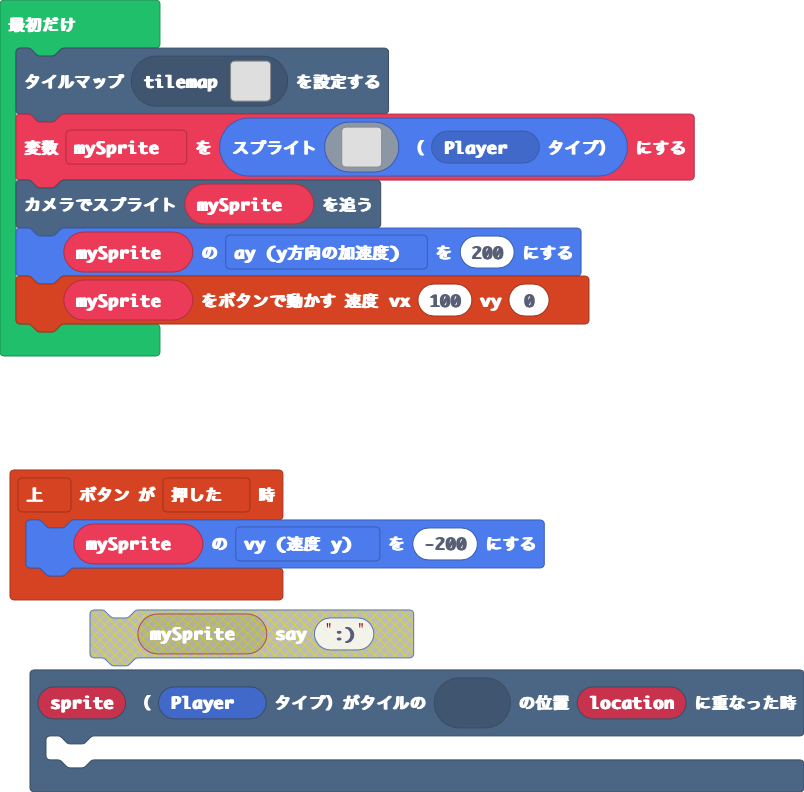
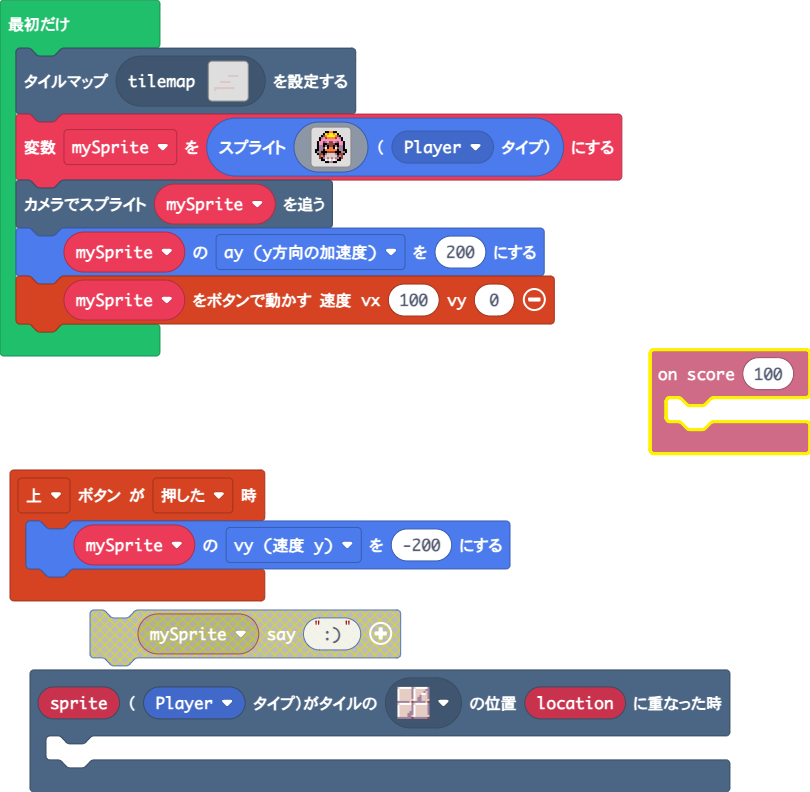
更新 main.blocks, main.ts

diff --git a/main.ts b/main.ts
@@ -1,3 +1,6 @@
+info.onScore(100, function () {
+	
+})
 scene.onOverlapTile(SpriteKind.Player, sprites.dungeon.floorLight1, function (sprite, location) {
 	
 })
